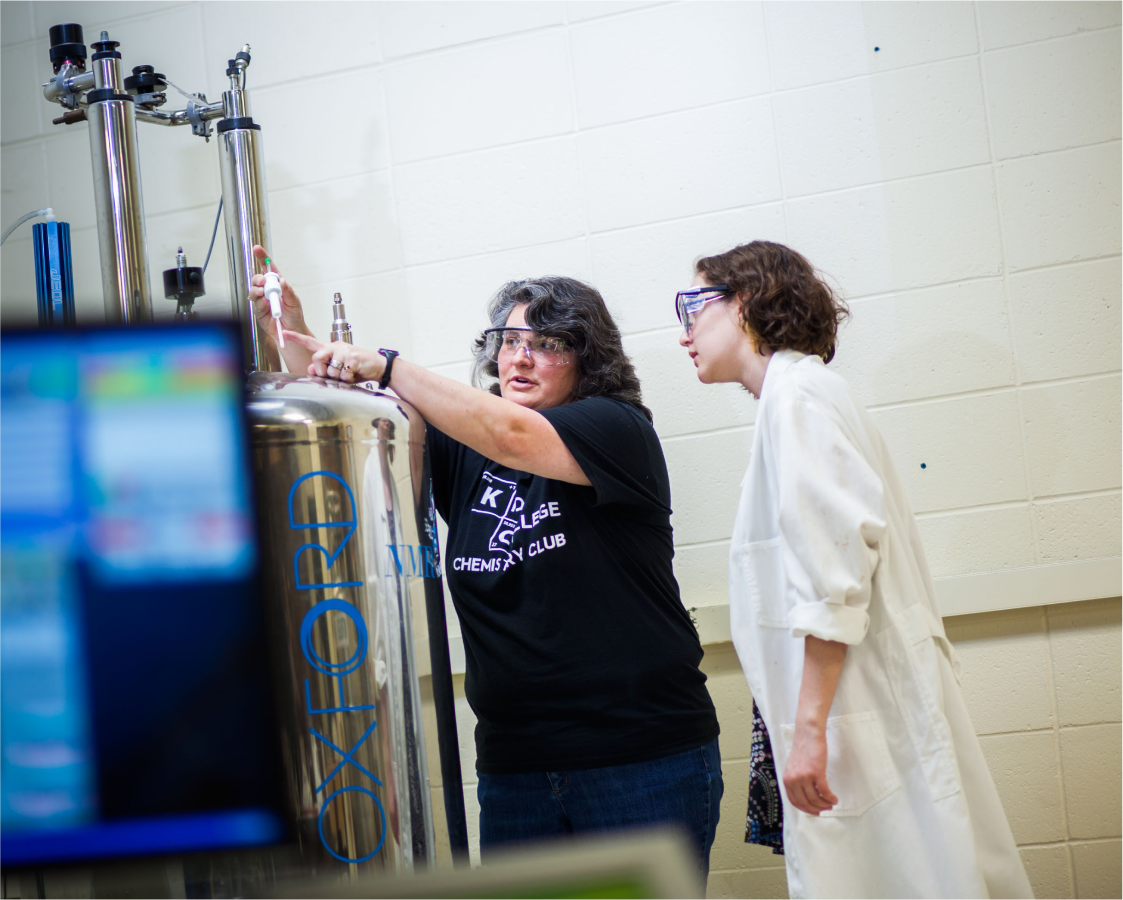
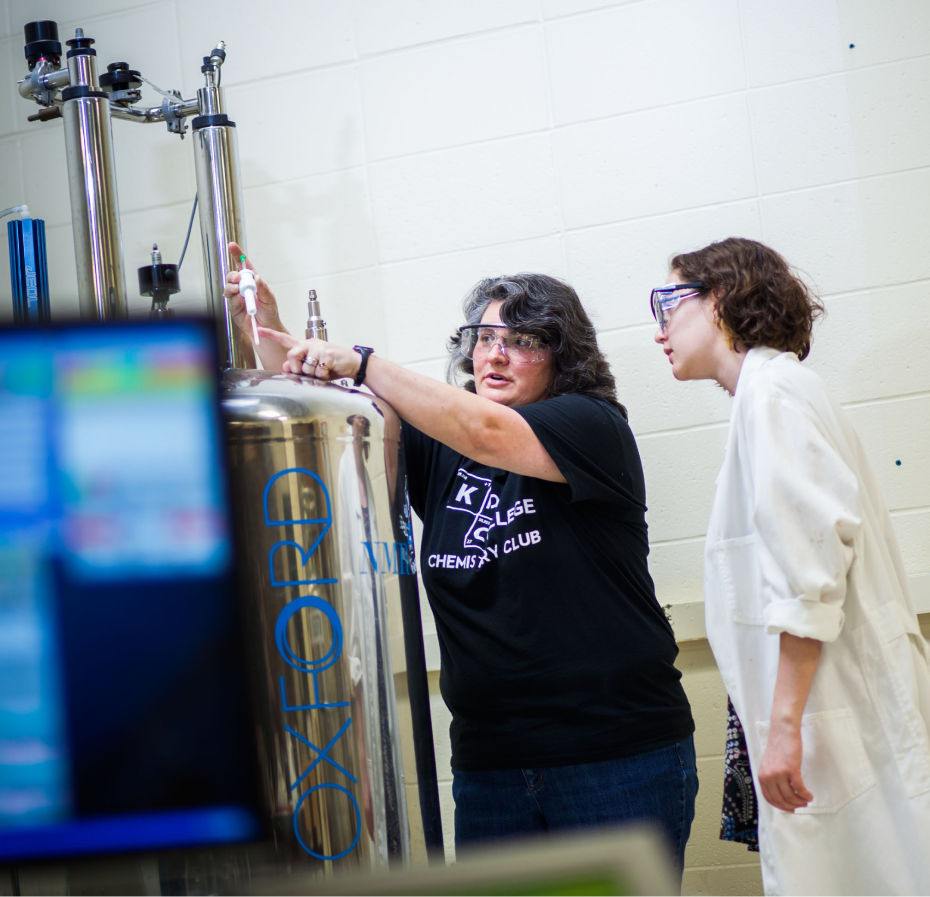
further updates to the UI

diff --git a/frontend/src/pages/Diagram.tsx b/frontend/src/pages/Diagram.tsx
@@ -1,12 +1,82 @@
+import { useState } from "react";
+
 export default function Diagram() {
+  // 3 divs aligned horizontally
+  // div 1 + 3 are the buttons on the left and right
+  // the buttons center aligned horizontally each with the different positions
+  // diagram in the middle
+
+  const [response, setResponse] = useState(null);
+
+  const handleClick = async () => {};
+
   return (
     <main className="bg-[#0C0C31] w-[1920px] h-[922px]">
-      <p className="text-[#0C0C31]">hi, used to "create" the page</p>
-     <img
-        src="/src/assets/NMRDiagramPlaceholder.png"
-        alt="NMR diagram"
-        className="absolute item-center justify-center left-[500px] top-[160px]"
-      ></img>
+      <div className="absolute w-full h-[900px] flex items-center justify-center">
+        <img
+          src="/src/assets/NMRDiagramPlaceholder.png"
+          alt="NMR diagram"
+          className="h-[873.8px] w-[530.4px]"
+        ></img>
+      </div>
+
+      <div>
+        <button
+          onClick={handleClick}
+          className="absolute top-[220px] left-[170px] bg-[#080821] text-[#FEFCFC] font-semibold text-[36px] px-10 py-6 rounded"
+        >
+          All Components
+        </button>
+
+        <button
+          onClick={handleClick}
+          className="absolute top-[420px] left-[170px] bg-[#080821] text-[#FEFCFC] font-semibold text-[36px] px-10 py-6 rounded"
+        >
+          The Magnet
+        </button>
+         
+        <button
+          onClick={handleClick}
+          className="absolute top-[620px] left-[170px] bg-[#080821] text-[#FEFCFC] font-semibold text-[36px] px-10 py-6 rounded"
+        >
+          Liquid Nitrogen
+        </button>
+
+        <button
+          onClick={handleClick}
+          className="absolute top-[820px] left-[170px] bg-[#080821] text-[#FEFCFC] font-semibold text-[36px] px-10 py-6 rounded"
+        >
+          Liquid Helium
+        </button>
+
+        <button
+          onClick={handleClick}
+          className="absolute top-[220px] left-[1450px] bg-[#080821] text-[#FEFCFC] font-semibold text-[36px] px-10 py-6 rounded"
+        >
+          The Sample
+        </button>
+
+        <button
+          onClick={handleClick}
+          className="absolute top-[420px] left-[1450px] bg-[#080821] text-[#FEFCFC] font-semibold text-[36px] px-10 py-6 rounded"
+        >
+          Mylar
+        </button>
+
+        <button
+          onClick={handleClick}
+          className="absolute top-[620px] left-[1450px] bg-[#080821] text-[#FEFCFC] font-semibold text-[36px] px-10 py-6 rounded"
+        >
+          Shim Colis
+        </button>
+
+        <button
+          onClick={handleClick}
+          className="absolute top-[820px] left-[1450px] bg-[#080821] text-[#FEFCFC] font-semibold text-[36px] px-10 py-6 rounded"
+        >
+          The Pulse
+        </button>
+      </div>
     </main>
   );
 }

diff --git a/frontend/src/pages/GenChem.tsx b/frontend/src/pages/GenChem.tsx
@@ -1,30 +1,29 @@
 export default function GenChem() {
-      return (
-        <main className="bg-[#0C0C31] w-[1920px] h-[922px]">
-        <p className="text-[#0C0C31]">hi, used to "create" the page</p>
-  
-        <h1 className="text-[#A5C882] text-[120px] font-bold text-center ">
-          General Chemistry
-        </h1>
-        <p className="absolute text-[#FEFCFC] text-[40px] text-center top-[374px] px-21 font-serif">
-          NMR instruments vary in size according to magnet strength, reported in
-          megahertz (MHz).
+  return (
+    <main className="bg-[#0C0C31] w-[1920px] h-[922px]">
+      <h1 className="absolute text-[#A5C882] text-[70px] font-semibold top-[35px] left-[237px]">
+        General Chemistry
+      </h1>
+      <img
+          src="/src/assets/cermak-student.png"
+          alt="general chemistry"
+          className=" h-full"
+        ></img>
+
+      <div className=" w-[960px] ">
+        <h2 className="absolute top-[350px] left-[1050px] text-[100px] font-bold text-[#A5C882] leading-[100px]">
+          Carbon-13 NMR
           <br />
-          <br/>
-          Our old instrument is a 270 MHz instrument, while our current operating
-          instrument is a 400 MHz instrument, located in the basement of the C
-          Wing of this building.
-          <br />
-          <br />
-          There are tabletop NMR instruments that fit on a lab bench all the way
-          to instruments that are taller than an average person and take up their
-          own special room.
-          <br />
-          <br />
-          These instruments are expensive and delicate, so the operator must stay
-          focused and follow all operating instructions.
+          Spectroscopy
+        </h2>
+      </div>
+      <div className=" absolute w-[810px] top-[585px] left-[1050px] font-serif text-[36px] text-[#FEFCFC]">
+        <p>
+          13C NMR spectroscopy is used to distinguish the number of types of
+          carbon atoms among a set of isomer compounds with the same molecular
+          formula but different structures.
         </p>
-      </main>
-      );
-    }
-    
+      </div>
+    </main>
+  );
+}

diff --git a/frontend/src/pages/NMRInstrumentation.tsx b/frontend/src/pages/NMRInstrumentation.tsx
@@ -1,7 +1,40 @@
+// must change the h of the paragraph to leave space for the back button
+// must also add the link to add picture
+//  would it be better to just format it like that from the start?
+
 export default function NMRInstrumentation() {
   return (
-    <div>
-    <p>NMR Instrumentation</p>
-  </div>
+    <main className="bg-[#0C0C31] w-[1920px] h-[922px]">
+      <p className="text-[#0C0C31]">hi, used to "create" the page</p>
+      <h1 className="absolute text-[#A5C882] text-[70px] font-semibold top-[35px] left-[237px]">
+        NMR Instrumentation
+      </h1>
+
+      <div className=" w-[960px] ">
+        <h2 className="absolute top-[490px] left-[170px] text-[130px] font-bold text-[#A5C882]">
+          Size Matter
+        </h2>
+      </div>
+      <div className=" absolute w-[940px] top-[240px] left-[980px] font-serif text-[36px] text-[#FEFCFC]">
+        <p>
+          NMR instruments vary in size according to magnet strength, reported in
+          megahertz (MHz).
+           <br /> 
+           <br /> 
+           Our old instrument is a 270 MHz instrument,
+          while our current operating instrument is a 400 MHz instrument,
+          located in the basement of the C Wing of this building. 
+          <br /> 
+          <br /> 
+          There are tabletop NMR instruments that fit on a lab bench all the way to
+          instruments that are taller than an average person and take up their
+          own special room.
+          <br />
+          <br />
+           These instruments are expensive and delicate, so the operator
+          must stay focused and follow all operating instructions.
+        </p>
+      </div>
+    </main>
   );
 }

diff --git a/frontend/src/pages/OrgChem.tsx b/frontend/src/pages/OrgChem.tsx
@@ -1,8 +1,37 @@
+import { Link } from "react-router";
+
 export default function OrgChem() {
-      return (
-        <div>
-          <p>Organic Chemistry</p>
-        </div>
-      );
-    }
-    
+  return (
+    <main className="bg-[#0C0C31] w-[1920px] h-[922px]">
+      <div className="absolute top-[831px] flex space-x-[76px] w-[1920px] justify-center">
+        <Link
+          to="/spec-lab"
+          className="flex font-semibold items-center justify-center text-[40px]  w-[395px] h-[140px] rounded bg-[#080821] text-center"
+        >
+          Spectroscopy
+          <br />
+          Unknown Lab
+        </Link>
+        <Link
+          to="/3-week"
+          className="flex font-semibold items-center justify-center text-[40px]  w-[395px] h-[140px] rounded bg-[#080821] text-center"
+        >
+          3-Week Lab
+          <br />
+          Synthesis Project
+        </Link>
+        <Link
+          to="/stereo"
+          className="flex font-semibold items-center justify-center text-[40px]  w-[395px] h-[140px] rounded bg-[#080821] text-center"
+        >
+          Stereoselective <br /> Reduction of Camphor
+        </Link>
+      </div>
+      <h1 className="absolute text-[#A5C882] text-[270px] font-bold left-[320px] top-[230px] leading-[260px] text-center ">
+        Organic 
+        <br/>
+        Chemistry
+      </h1>
+    </main>
+  );
+}

diff --git a/frontend/src/pages/Interpreting.tsx b/frontend/src/pages/Interpreting.tsx
@@ -1,8 +1,34 @@
 export default function Interpreting() {
-      return (
-        <div>
-          <p>Interpreting NMR Spectrum</p>
+  return (
+    <main className="bg-[#0C0C31] w-[1920px] h-[922px]">
+      <p className="text-[#0C0C31]">hi, used to "create" the page</p>
+      <h1 className="absolute text-[#A5C882] text-[70px] font-semibold top-[35px] left-[237px]">
+        NMR Instrumentation
+      </h1>
+
+      <div className="flex absolute top-[430px] left-[130px] space-x-6">
+        <div className="w-[960px]">
+          <h2 className="text-[130px] font-bold text-[#A5C882]">
+            Interpreting
+            <br />
+            NMR Spectrum
+          </h2>
         </div>
-      );
-    }
-    
+        <div className="w-[730px] font-serif text-[36px] text-[#FEFCFC]">
+          <p>
+            "Seeing"
+            <br />
+            Chemical
+            <br />
+            Structures
+            <br />
+            <br />
+            An NMR spectrum doesn’t actually allow us to see a chemical
+            structure, but a trained scientist can elucidate a chemical
+            structure from NMR spectral data.
+          </p>
+        </div>
+      </div>
+    </main>
+  );
+}

diff --git a/frontend/src/App.tsx b/frontend/src/App.tsx
@@ -19,6 +19,9 @@ import Helen from "./pages/Helen"
 import Credits from "./pages/Credits"
 import AboutProj from "./pages/AboutProj"
 import SpecialThanks from "./pages/SpecialThanks"
+import SpecLab from "./pages/SpecLab"
+import ThreeWeek from "./ThreeWeek"
+import Stereo from "./Stereo"
 
 
 function App() {
@@ -46,6 +49,10 @@ function App() {
           <Route path="about" element={<About/>} />
           <Route path="credits" element={<Credits/>} />
           <Route path="special-thanks" element={<SpecialThanks/>} />
+          <Route path="spec-lab" element={<SpecLab/>} />
+          <Route path="3-week" element={<ThreeWeek/>} />
+          <Route path="stereo" element={<Stereo/>} />
+
 
         </Route>
       </Routes>

diff --git a/frontend/src/pages/AboutProj.tsx b/frontend/src/pages/AboutProj.tsx
@@ -31,10 +31,10 @@ export default function AboutProj() {
           About
         </Link>
         <Link
-          to="/credit"
+          to="/credits"
           className="flex font-semibold items-center justify-center  text-[40px]  w-[390px] h-[100px] rounded bg-[#080821] text-center"
         >
-          Credit
+          Credits
         </Link>
         <Link
           to="/special-thanks"

diff --git a/frontend/src/pages/NMRFundamentals.tsx b/frontend/src/pages/NMRFundamentals.tsx
@@ -45,9 +45,9 @@ export default function NMRFundamentals() {
           Diagram of <br/> Componets
         </Link>
       </div>
-      <p className="absolute text-[#A5C882] text-[70px] font-semibold top-[35px] left-[237px]">
+      <h1 className="absolute text-[#A5C882] text-[70px] font-semibold top-[35px] left-[237px]">
         NMR Fundamentals
-      </p>
+      </h1>
 
       
     </main>

diff --git a/frontend/src/Stereo.tsx b/frontend/src/Stereo.tsx
@@ -1,0 +1,8 @@
+export default function Stereo() {
+      return (
+        <div>
+          <p>Stereoselective Reduction of Camphor</p>
+        </div>
+      );
+    }
+    

diff --git a/frontend/src/ThreeWeek.tsx b/frontend/src/ThreeWeek.tsx
@@ -1,0 +1,7 @@
+export default function ThreeWeek() {
+  return (
+    <div>
+      <p>3-Week Lab Synthesis Projecg</p>
+    </div>
+  );
+}

diff --git a/frontend/src/pages/SpecLab.tsx b/frontend/src/pages/SpecLab.tsx
@@ -1,0 +1,7 @@
+export default function SpecLab() {
+  return (
+    <div>
+      <p>Spectroscopy Unknown lab</p>
+    </div>
+  );
+}
